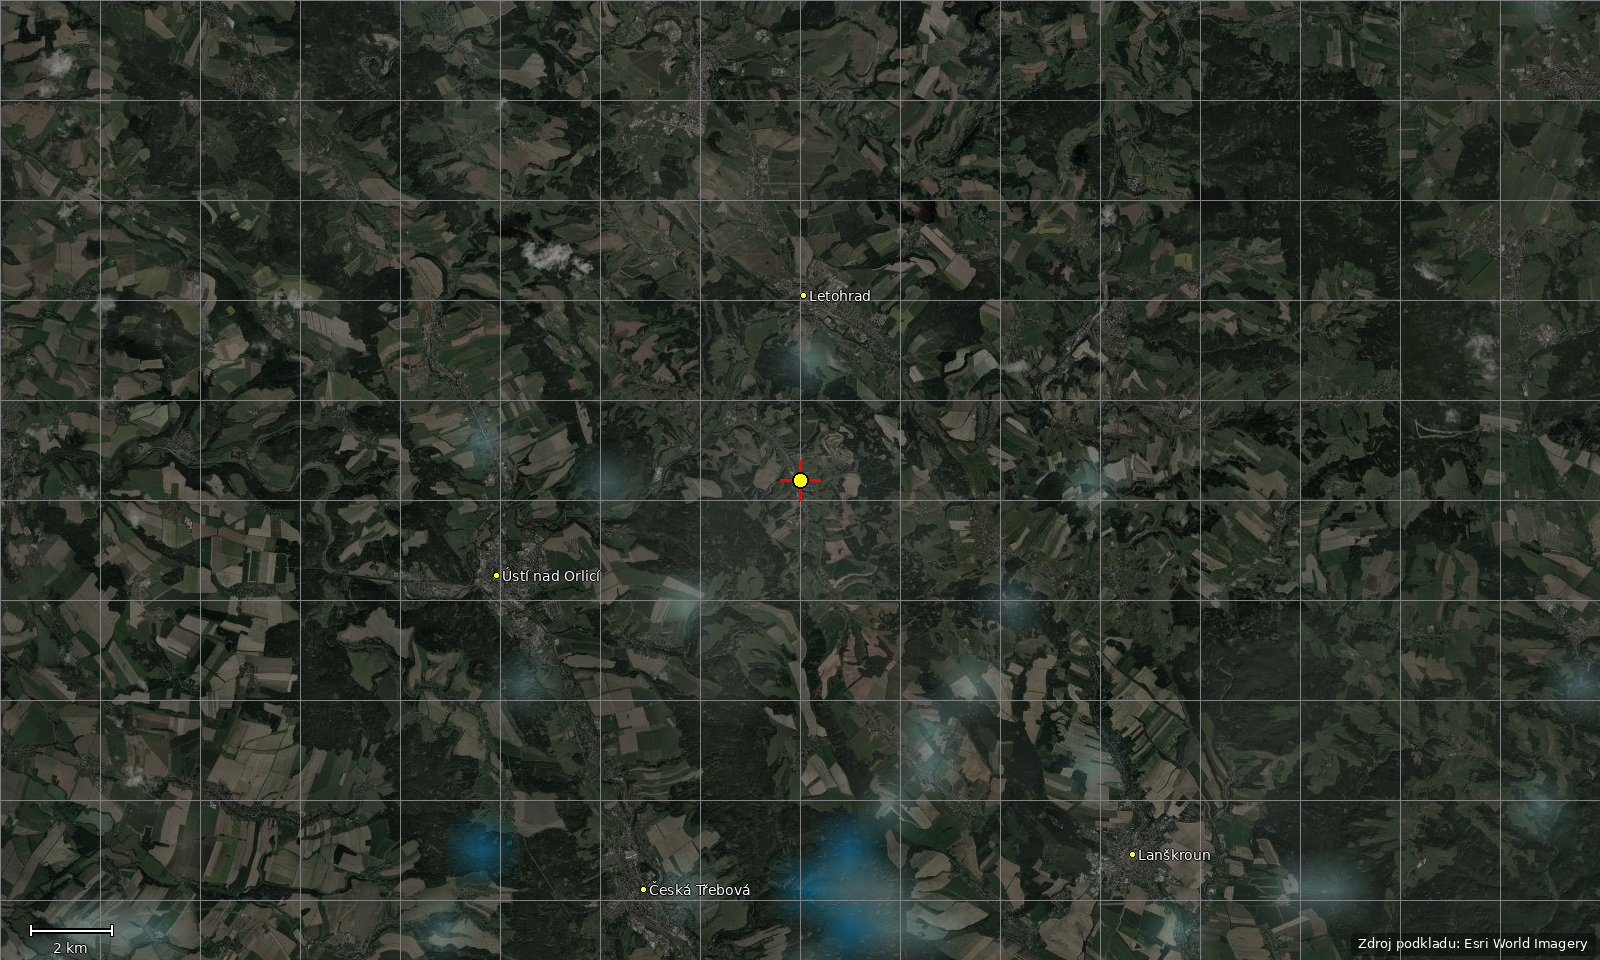
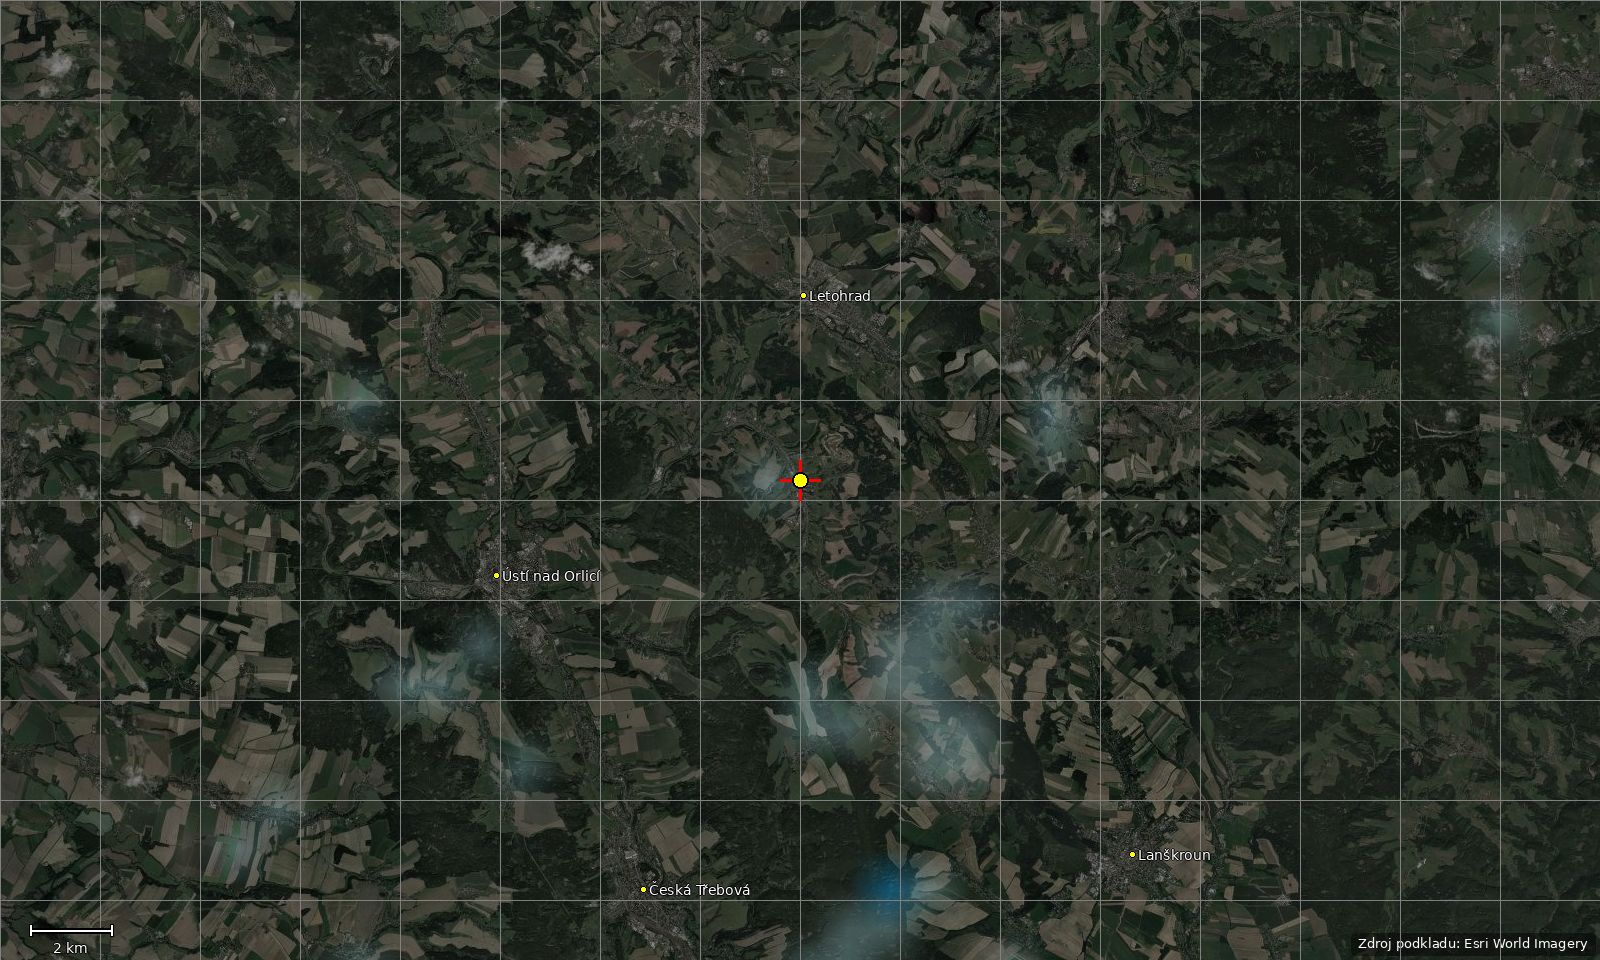
Vyladeni vrstvy oblacnosti

diff --git a/config.py b/config.py
@@ -135,7 +135,7 @@ CLOUDS_SOURCE_EAST = 20.0
 # Vzhled oblačnosti nad mapou.
 CLOUDS_PRODUCT = "vis-ir"
 CLOUDS_MAX_AGE_MINUTES = 45
-CLOUDS_OPACITY = 0.92
+CLOUDS_OPACITY = 0.22
 CLOUDS_GAMMA = 0.95
 CLOUDS_MIN_STRENGTH = 0.010
 CLOUDS_BASE_BRIGHTNESS = 12.0
